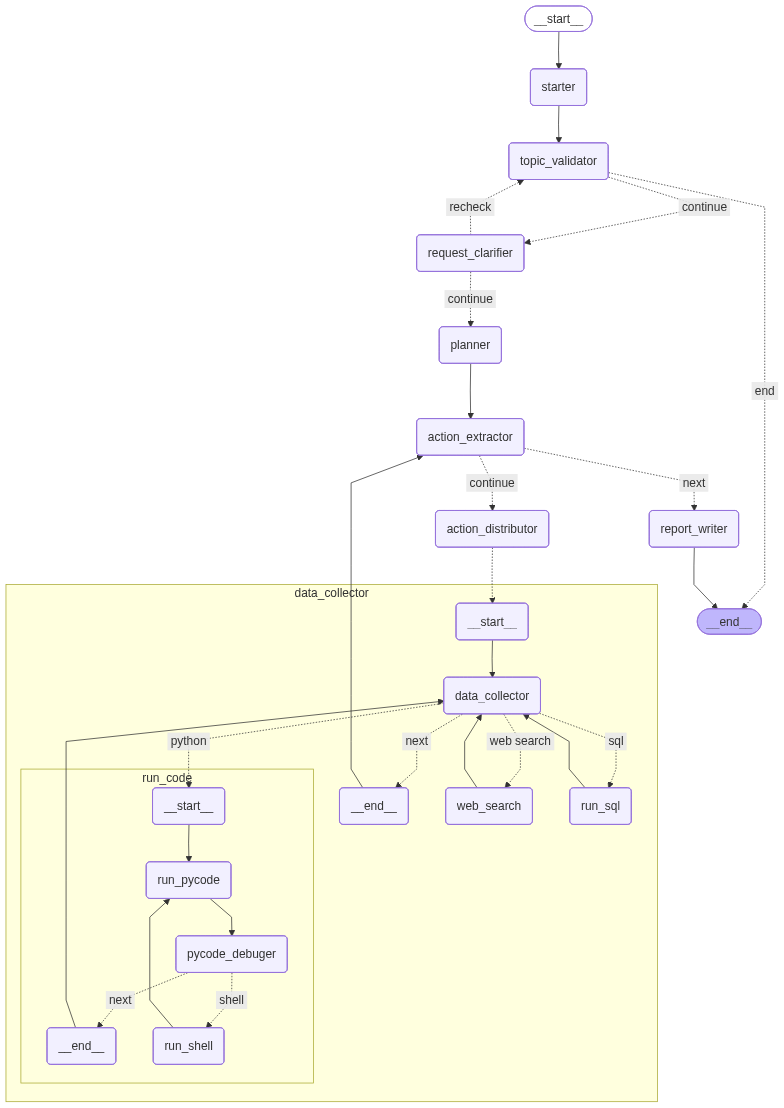
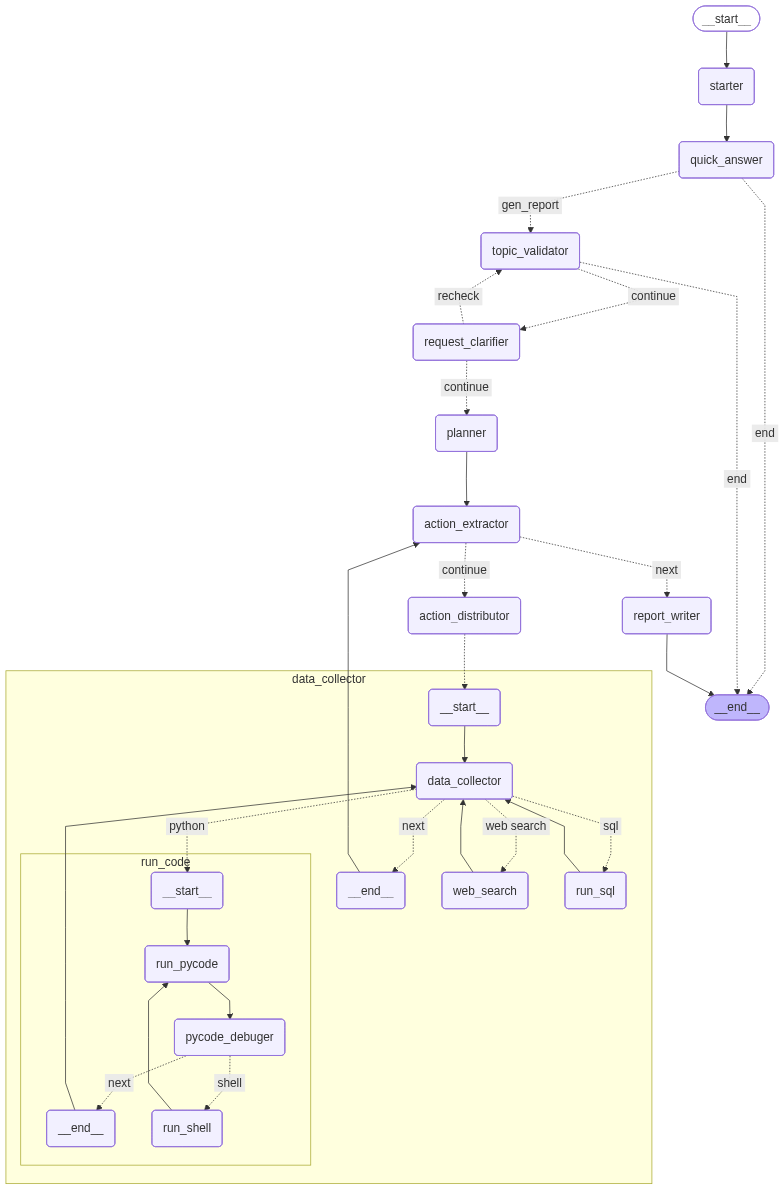
update agentic workflow

diff --git a/app/core/agent.py b/app/core/agent.py
@@ -557,15 +557,15 @@ class Agent(metaclass=Singleton):
         workflow.add_node('report_writer', self._report_writer)
 
         workflow.add_edge(START, 'starter')
-        workflow.add_edge('starter', 'topic_validator')
+        workflow.add_edge('starter', 'quick_answer')
+        workflow.add_conditional_edges(
+            'quick_answer',
+            lambda state: 'gen_report' if state.get('gen_report') else 'end',
+            {'end': END, 'gen_report': 'topic_validator'}
+        )
         workflow.add_conditional_edges(
             'topic_validator',
             lambda state: 'end' if state.get('invalid_request') else 'continue',
-            {'end': END, 'continue': 'quick_answer'}
-        )
-        workflow.add_conditional_edges(
-            'quick_answer',
-            lambda state: 'continue' if state.get('gen_report') else 'end',
             {'end': END, 'continue': 'request_clarifier'}
         )
         workflow.add_conditional_edges(
